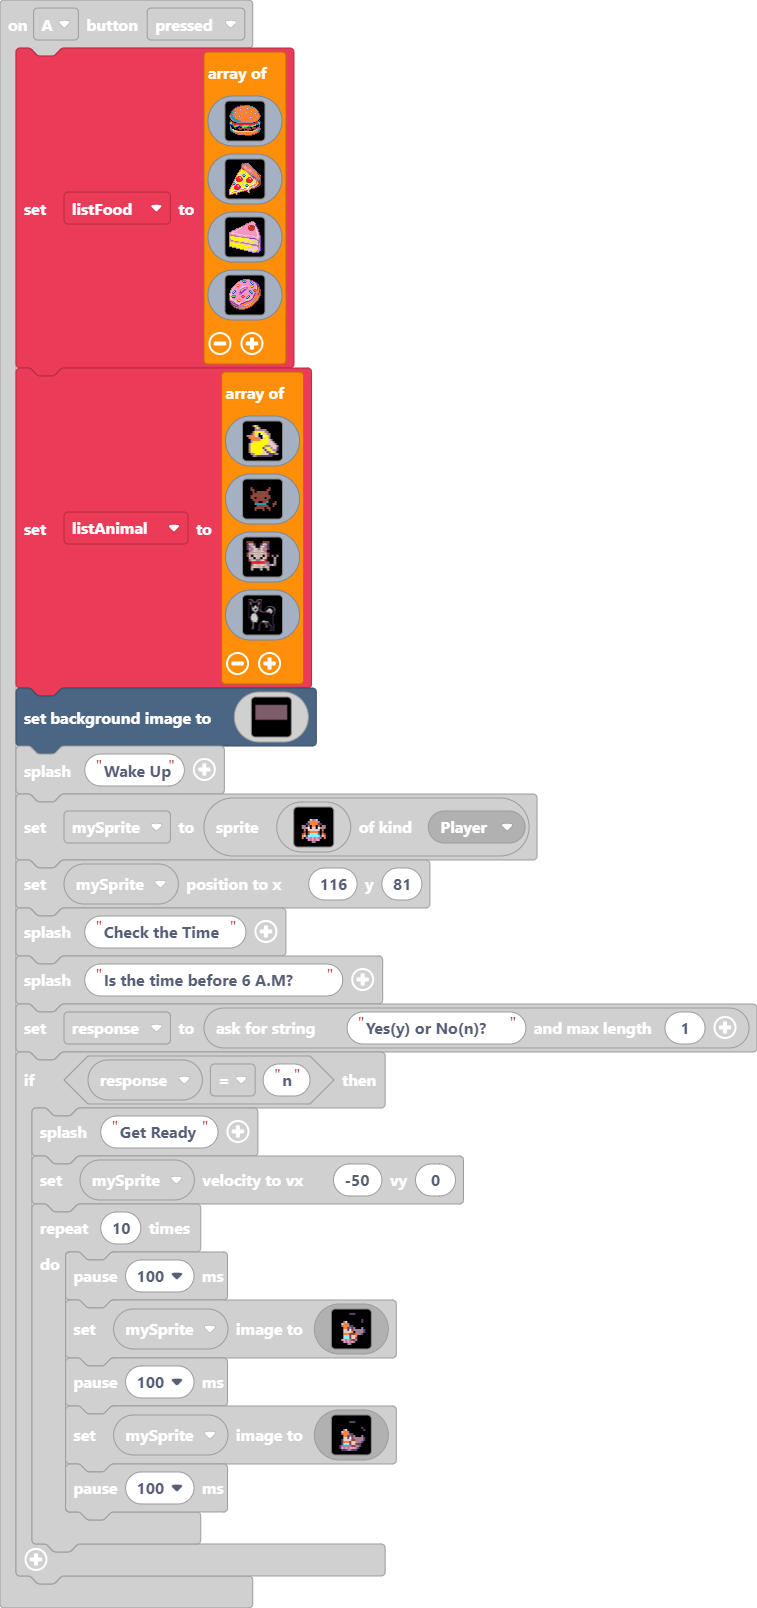
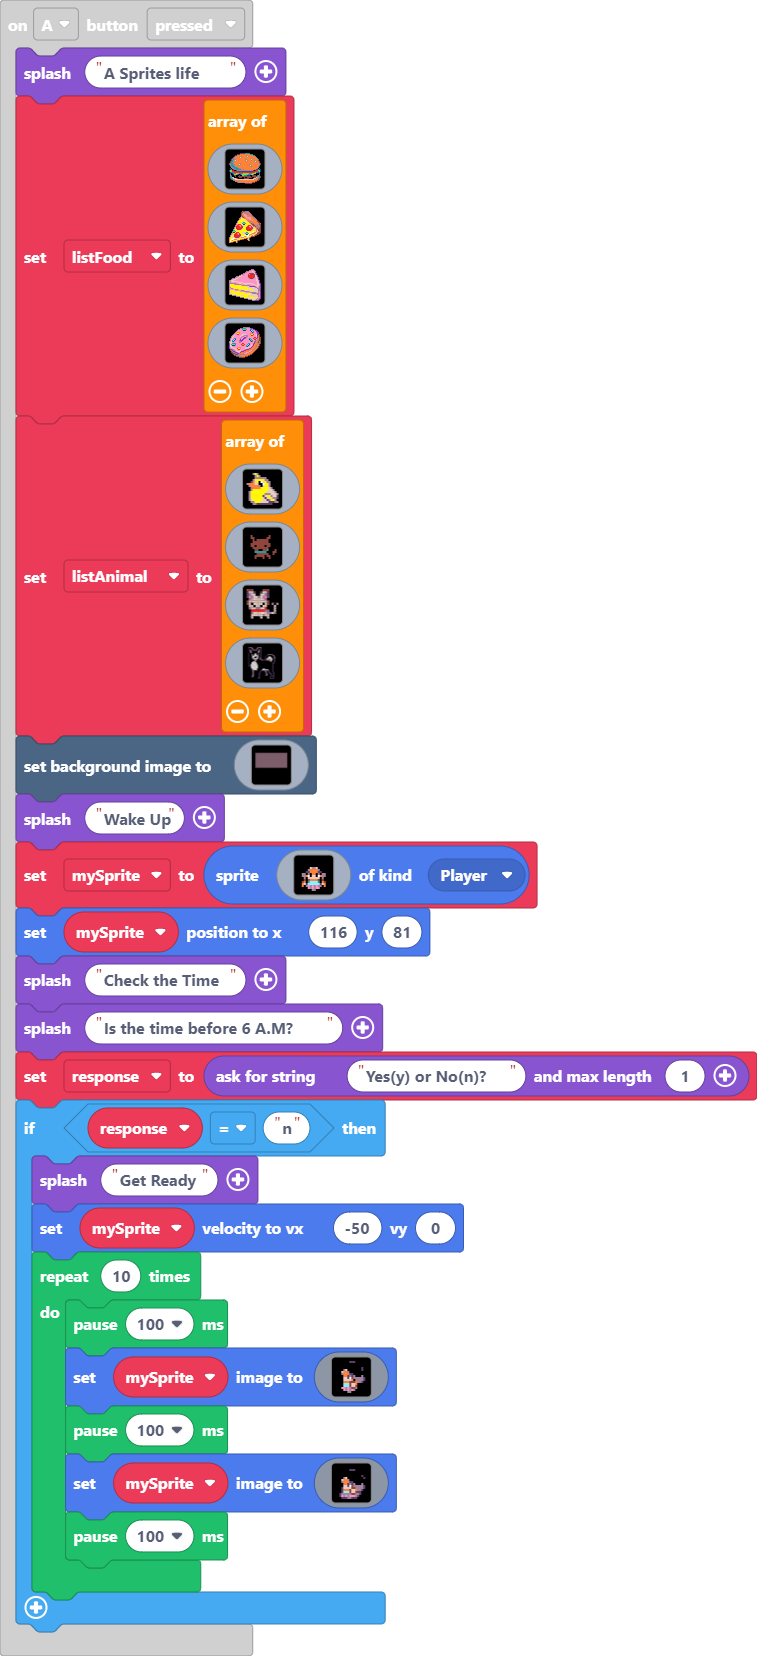
Update main.blocks, main.ts

diff --git a/main.ts b/main.ts
@@ -9,6 +9,7 @@ function checkScore () {
     }
 }
 controller.A.onEvent(ControllerButtonEvent.Pressed, function () {
+    game.splash("A Sprites life")
     listFood = [
     img`
         ...........ccccc66666...........
